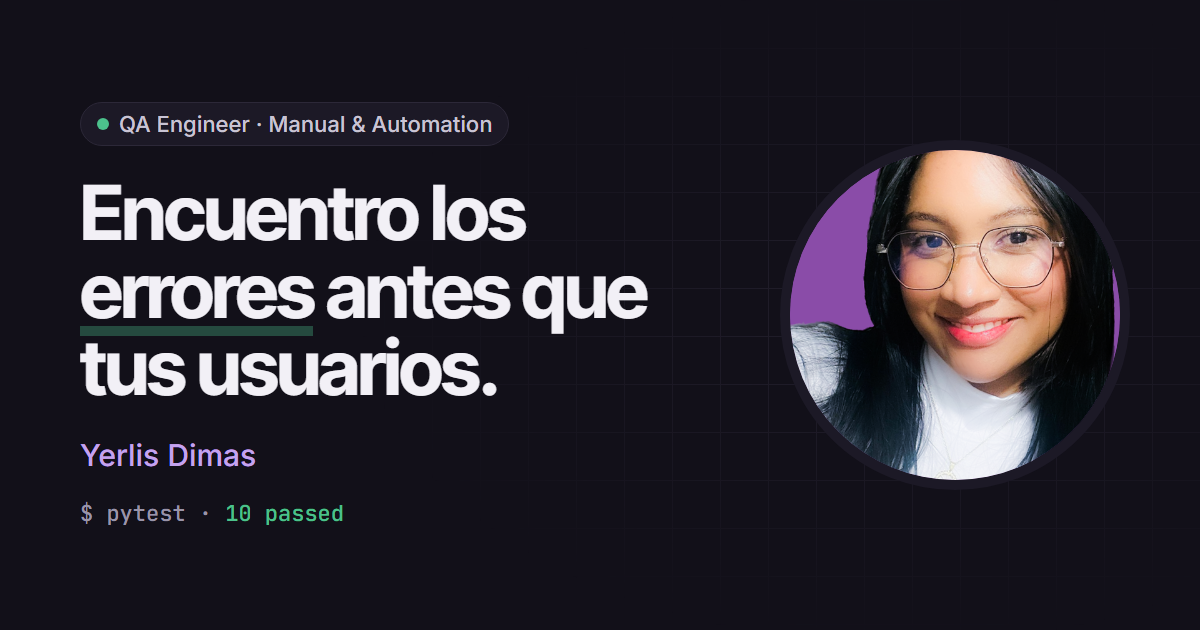
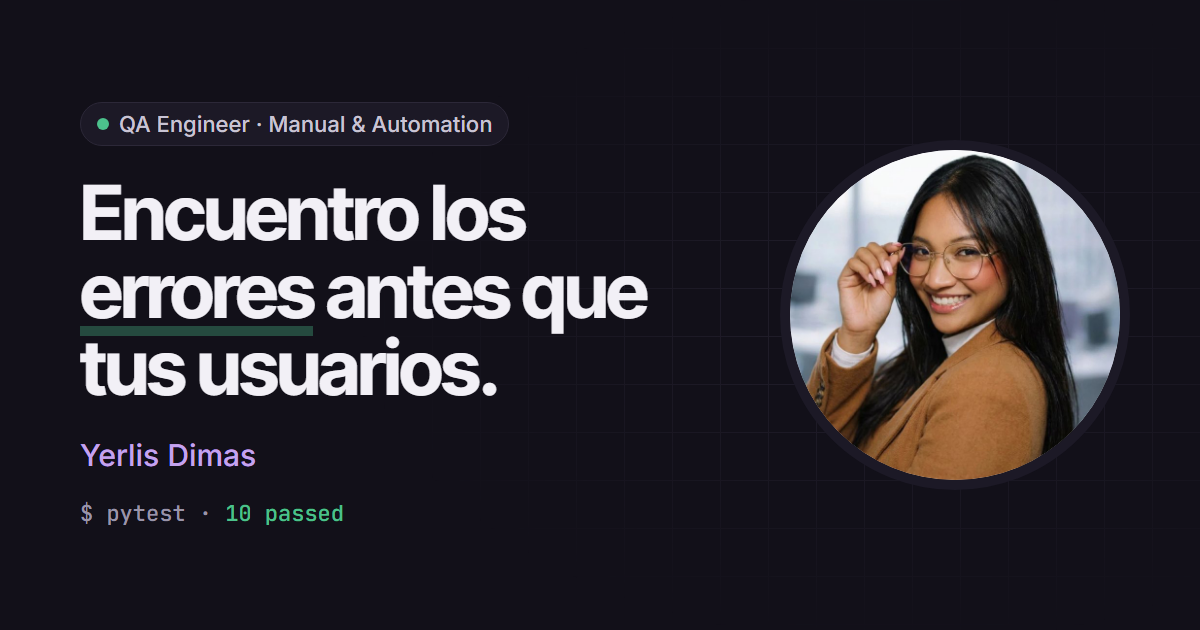
Actualiza la foto de perfil de Yerlis
- Nueva foto en public/img/yerlis.jpg (720×720, ~72 KB; la anterior
  pesaba ~666 KB en PNG).
- El círculo del retrato usa un fondo neutro del tema en lugar del
  morado de la foto anterior.
- Regenera public/og.png con la foto nueva.
- Actualiza el reporte de pruebas (31/31, 0 violaciones de accesibilidad).

Changed region(s): [[0.6475, 0.2413, 0.9558, 0.7841]]

diff --git a/src/content.js b/src/content.js
@@ -11,7 +11,7 @@ export const profile = {
   linkedin: "https://www.linkedin.com/in/yerlis-dimas-puello/",
   github: "https://github.com/Yerlis24",
   repo: "https://github.com/HEVERHD/portafolio-yerlis",
-  photo: `${base}img/yerlis.png`,
+  photo: `${base}img/yerlis.jpg`,
   // Cuando haya un CV en PDF, colócalo en /public y pon aquí su ruta,
   // p. ej. `${base}cv-yerlis-dimas.pdf`. Mientras sea null no se muestra el botón.
   cv: null,

diff --git a/src/styles.css b/src/styles.css
@@ -434,7 +434,7 @@ button {
   aspect-ratio: 1;
   border-radius: 50%;
   overflow: hidden;
-  background: #8848aa;
+  background: var(--bg-alt);
   box-shadow: var(--shadow-lg);
   outline: 10px solid var(--surface);
 }

diff --git a/README.md b/README.md
@@ -40,7 +40,7 @@ npm run test:report               # ejecuta la suite y actualiza src/qa-report.j
 
 Todos los textos, en español e inglés, están en [`src/content.js`](src/content.js).
 
-- **Foto:** `public/img/yerlis.png`.
+- **Foto:** `public/img/yerlis.jpg`.
 - **Proyectos:** imagen en `public/img/`, video y vista previa en `public/videos/` (H.264).
 - **CV:** coloca el PDF en `public/` y pon su ruta en `profile.cv`; el botón
   "Descargar CV" aparece solo cuando ese campo tiene valor.
